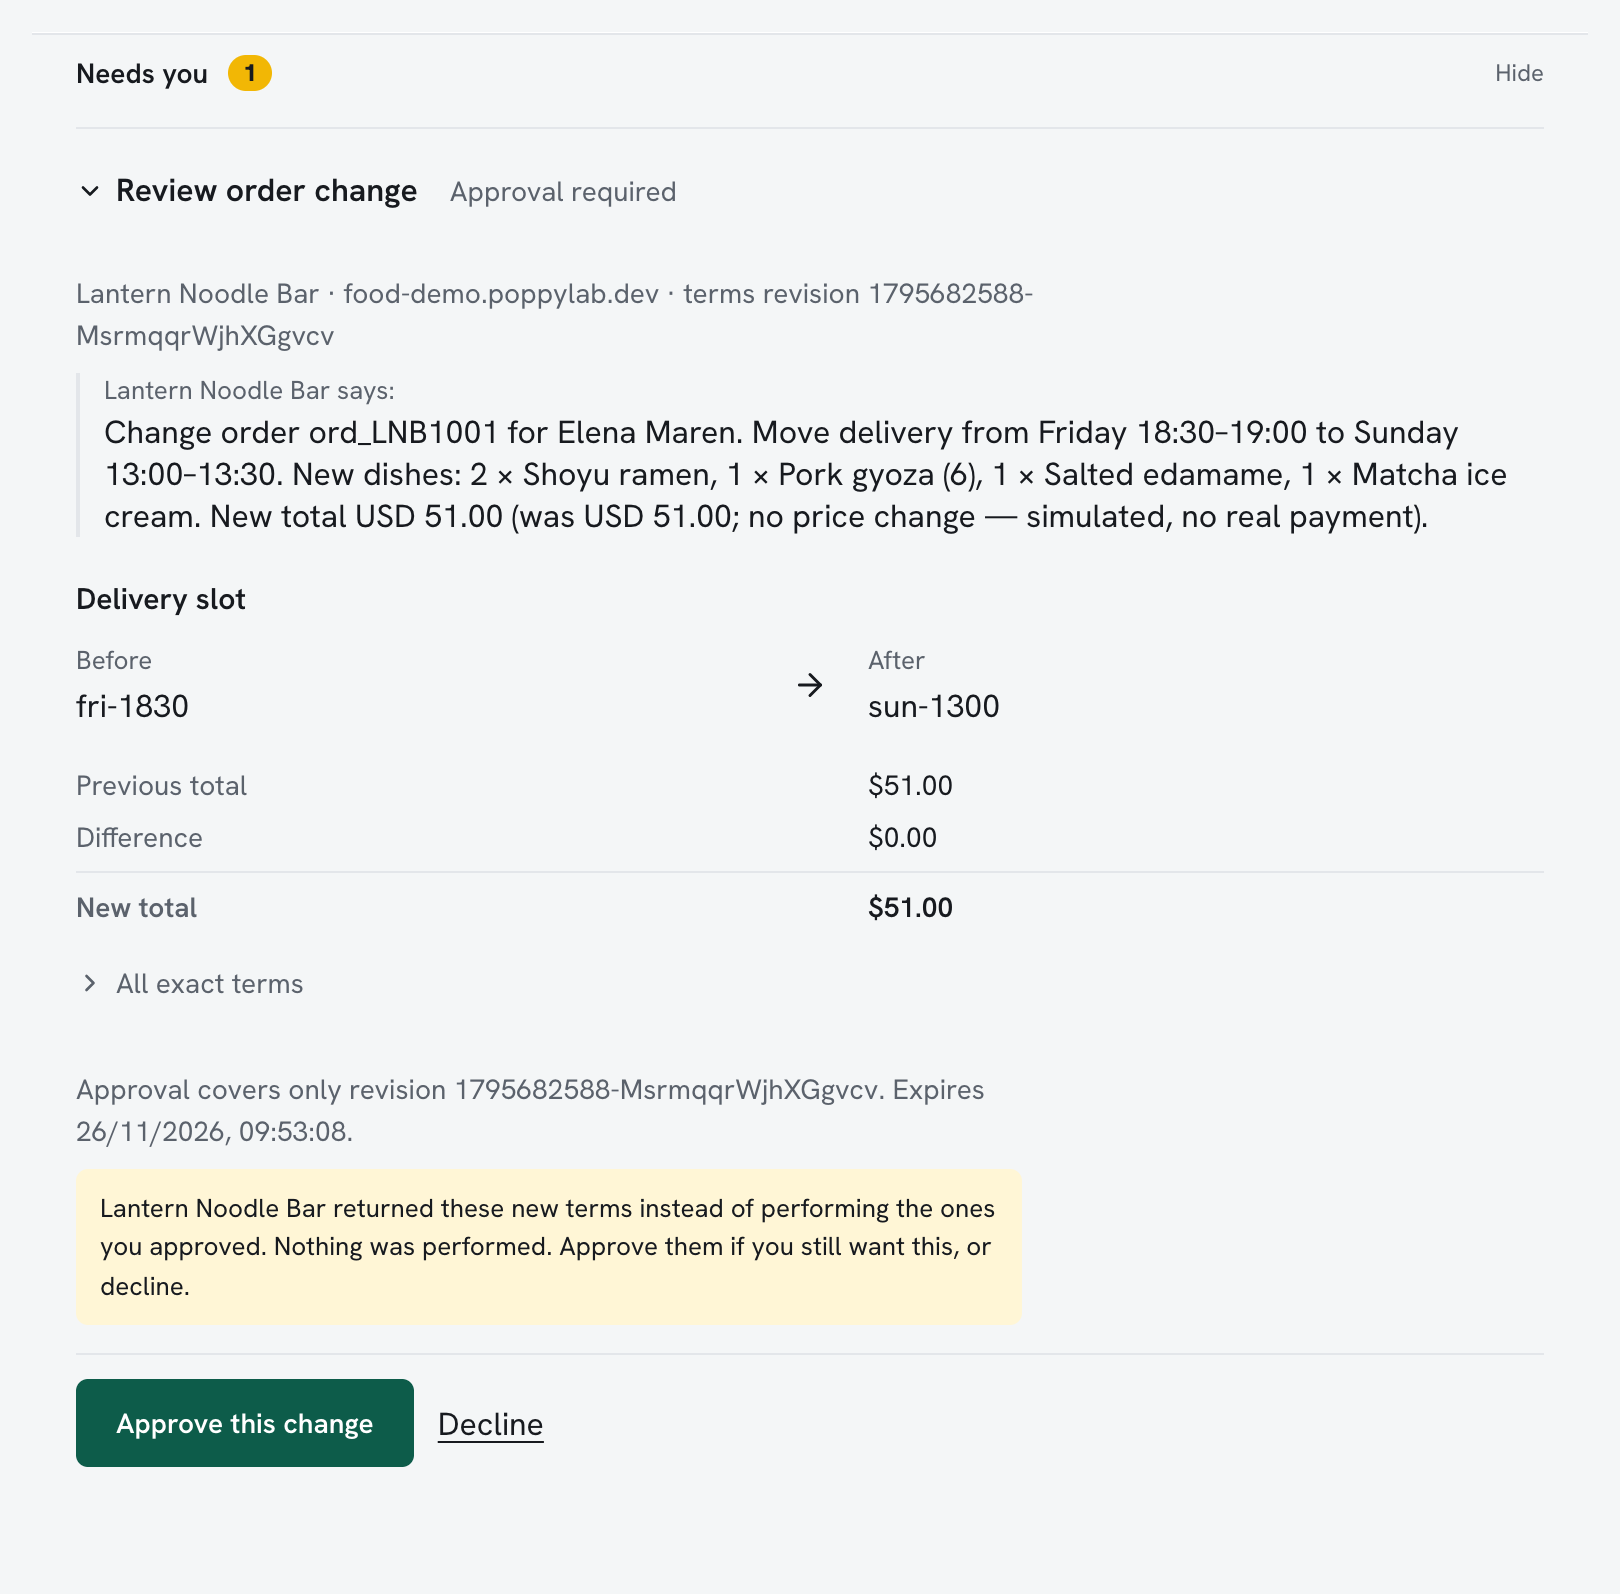
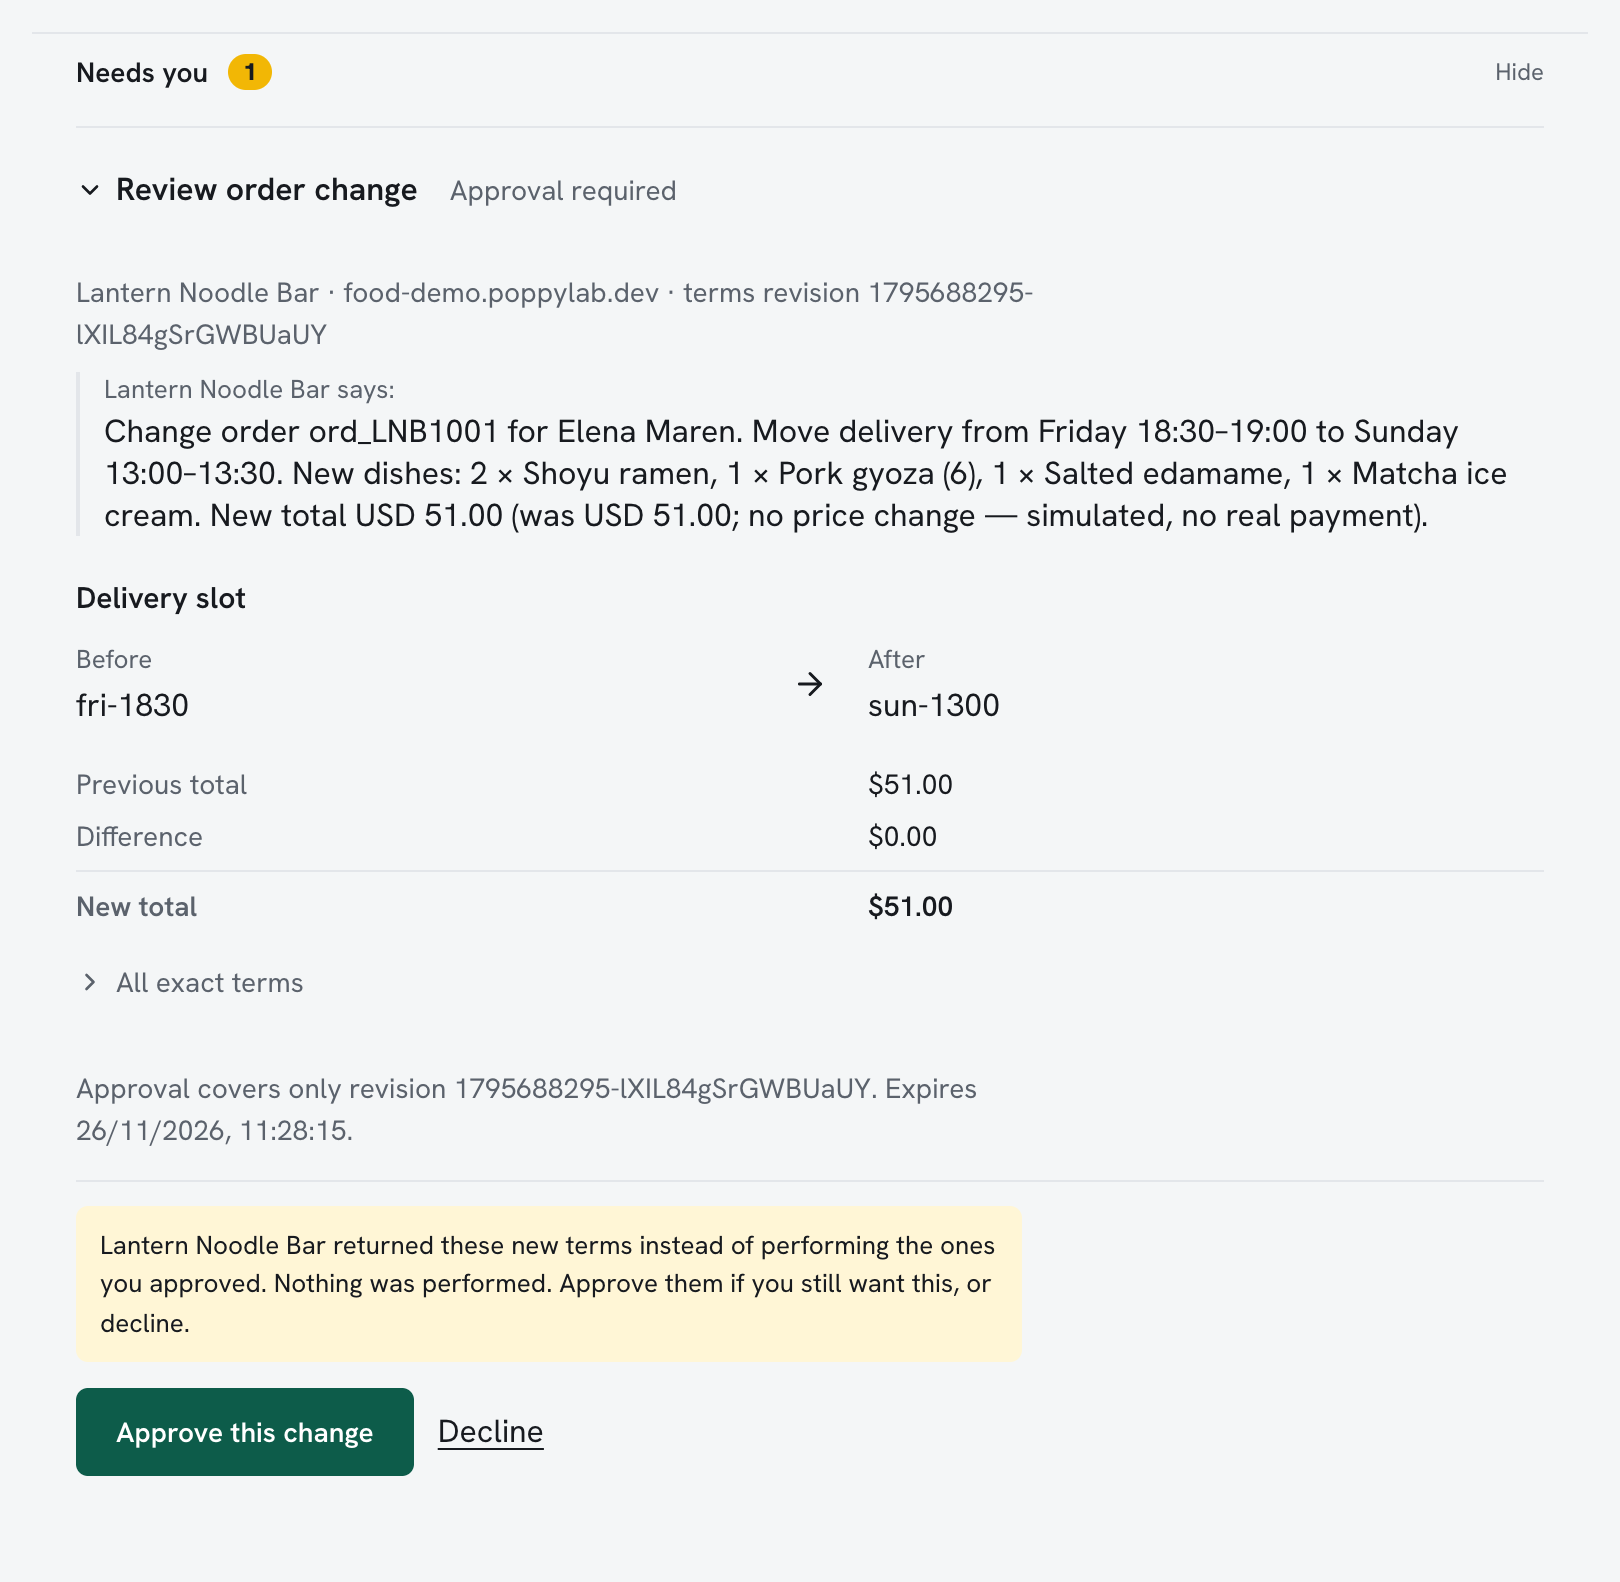
Retake the waiting cards of When something goes wrong after the panel change
Steps 7 and 10 were captured again against production on 26 November 2026. The note that says why a card still waits now sits in the card's foot, directly above Approve and Decline. With two proposals waiting at Harborline the panel shows the refused payment open and the transfer as a closed line with its amount, so step 10 says how the panel lists several proposals and step 11 names the transfer as that line.

diff --git a/docs/learn/how-it-works/when-something-goes-wrong.md b/docs/learn/how-it-works/when-something-goes-wrong.md
@@ -201,7 +201,7 @@ would refuse.
 
 ### 10. Approve a payment the balance no longer covers
 
-![The card for a payment of 4,000 dollars to Beacon Studio still waits. Above its buttons a note reads: Harborline Bank refused this request (HTTP 409, insufficient_funds; available balance: $2,845.00). Nothing was performed](../../../apps/playground/public/learn-media/how-it-works/when-something-goes-wrong/10-bank-refuses.webp "Harborline refused the approved payment and gave its reason as a code and a balance. No money moved.")
+![The panel counts two requests. A closed line reads Review Company proposal, Approval required, Amount $500.00. Under it the card for a payment of 4,000 dollars to Beacon Studio is open and still waits. Above its buttons a note reads: Harborline Bank refused this request (HTTP 409, insufficient_funds; available balance: $2,845.00). Nothing was performed](../../../apps/playground/public/learn-media/how-it-works/when-something-goes-wrong/10-bank-refuses.webp "Harborline refused the approved payment and gave its reason as a code and a balance. No money moved.")
 
 Elena asks for a payment of 4,000 dollars to Beacon Studio for November's
 design work. Harborline answers with its terms and moves no money. The terms
@@ -209,6 +209,12 @@ state the balance the checking account would have afterwards, worked out from
 the 12,845 dollars it holds at that moment. Elena leaves the card waiting, and
 in the same conversation she asks for two other payments of 5,000 dollars each
 and approves those. The account is down to 2,845 dollars.
+
+Several proposals can wait at once. The panel keeps one card open and lists
+each of the others as a closed line with its amount, and opening a line closes
+the open card. Elena opens each payment of 5,000 dollars that way to approve
+it. The line for 500 dollars is a transfer to her savings account that she
+asked for as well and has not decided yet.
 
 Then she approves the payment of 4,000 dollars. Iris sends her approval, and
 Harborline checks the account as it is now. The balance does not cover the
@@ -250,9 +256,8 @@ she approved, less than the payment. The other is the proposal itself, which
 shows as awaiting approval until its time runs out. After that it leaves the
 list, and the Not applied entry stays.
 
-The transfer of 500 dollars is another request from the same conversation, and
-it waited in the same panel, which is why the panel in step 10 counts two.
-Its first terms quoted a balance that the two payments made out of date. When
+The transfer of 500 dollars is the closed line in the panel in step 10. Its
+first terms quoted a balance that the two payments made out of date. When
 Elena approved it, Harborline returned new terms as Lantern did in step 7, and
 it made the transfer once she approved those. The list shows it once.
 
